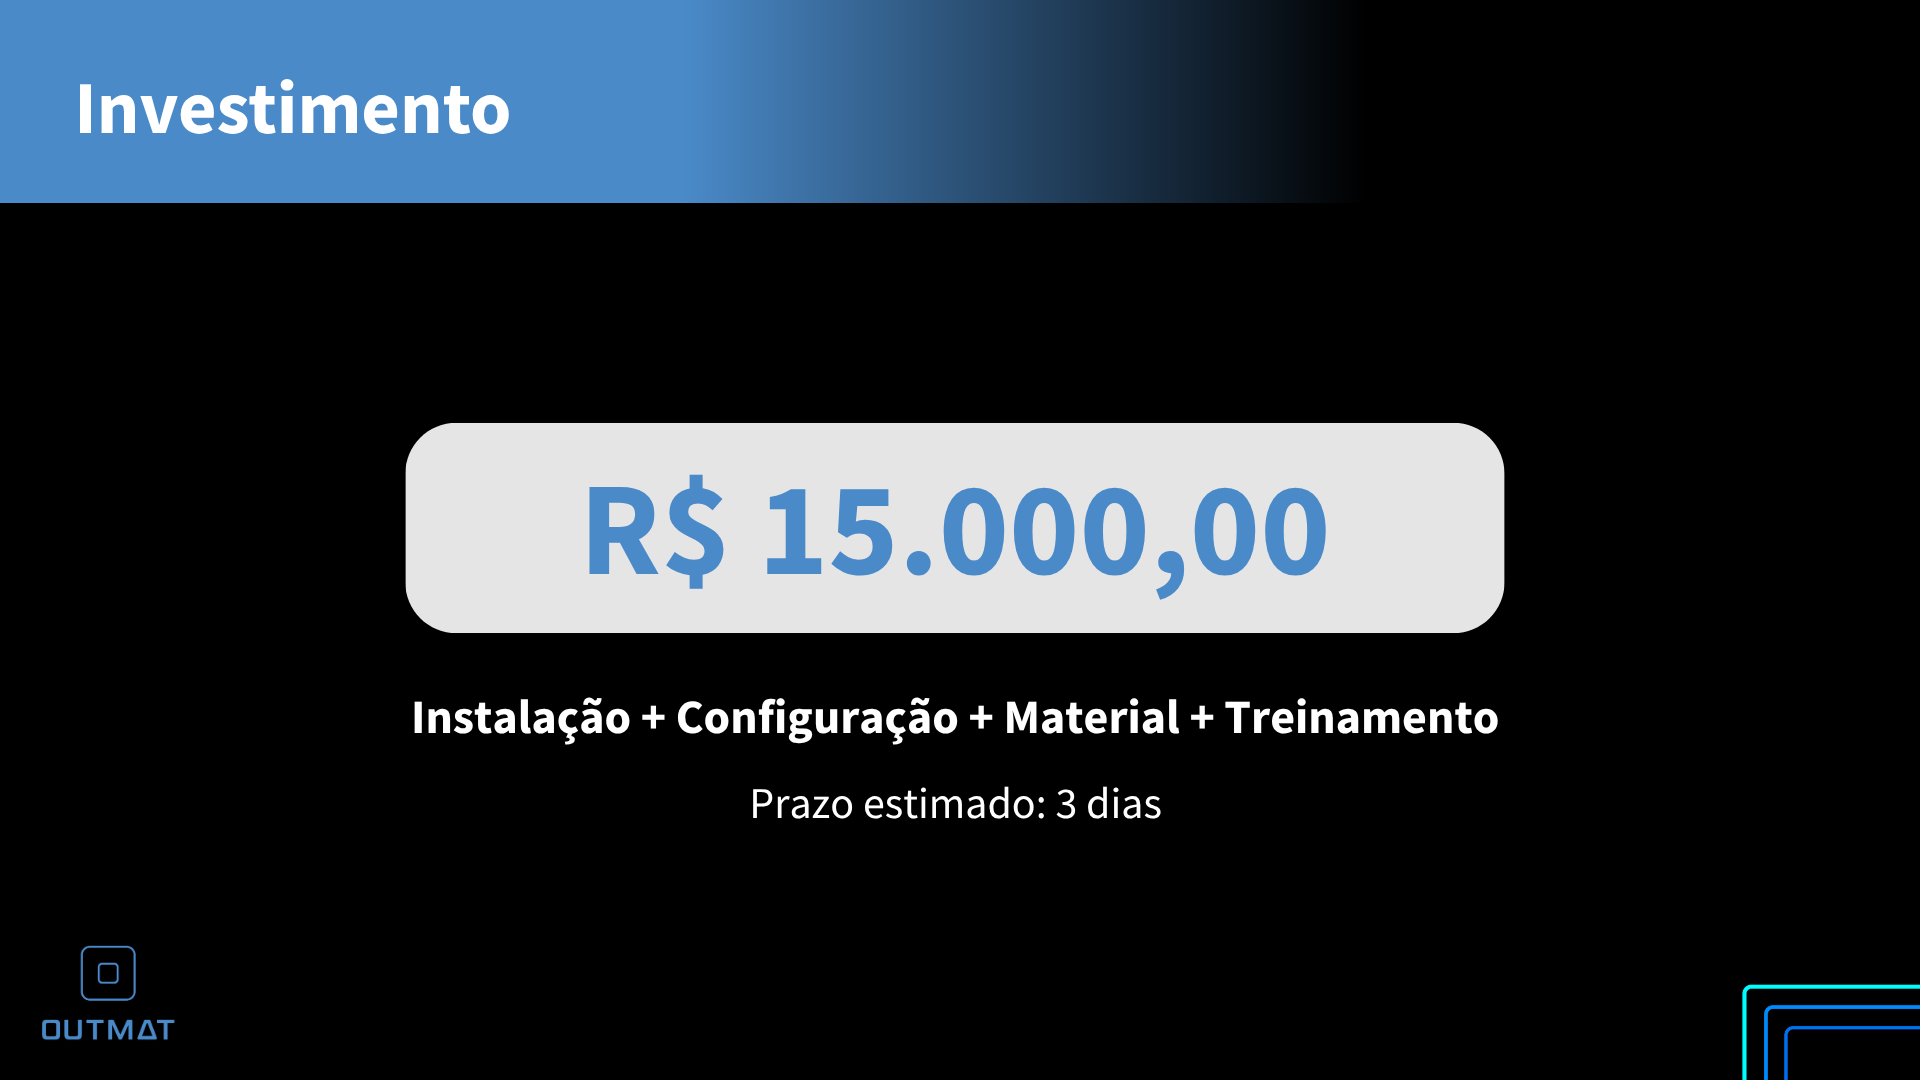
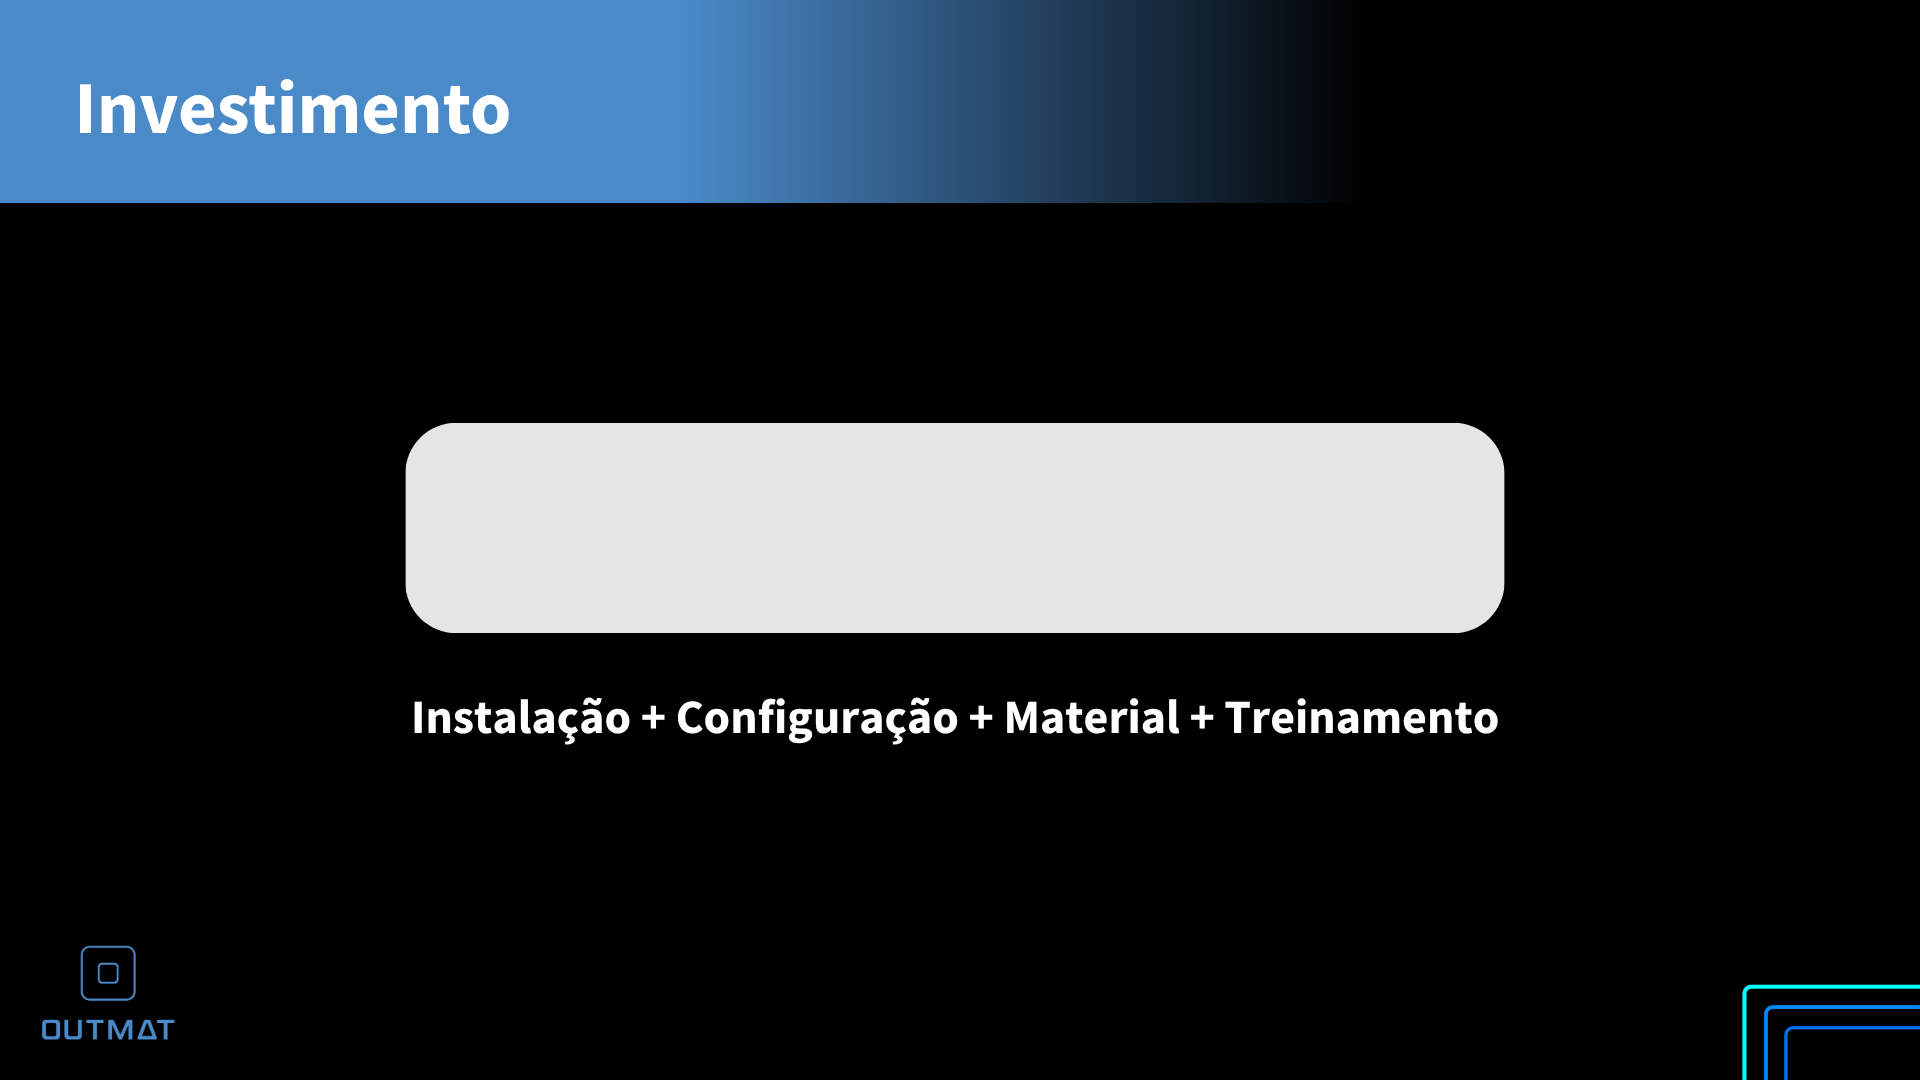
feat: finaliza PDF Projeto e configura seed do Prisma

Changed region(s): [[0.4062, 0.4278, 0.6875, 0.55], [0.2812, 0.4278, 0.375, 0.55], [0.375, 0.7333, 0.625, 0.7639]]

diff --git a/ma.config.ts b/ma.config.ts
@@ -1,0 +1,23 @@
+warning: in the working copy of 'prisma.config.ts', LF will be replaced by CRLF the next time Git touches it
+[1mdiff --git a/prisma.config.ts b/prisma.config.ts[m
+[1mindex 831a20f..d7a7a3c 100644[m
+[1m--- a/prisma.config.ts[m
+[1m+++ b/prisma.config.ts[m
+[36m@@ -1,5 +1,3 @@[m
+[31m-// This file was generated by Prisma, and assumes you have installed the following:[m
+[31m-// npm install --save-dev prisma dotenv[m
+ import "dotenv/config";[m
+ import { defineConfig } from "prisma/config";[m
+ [m
+[36m@@ -7,8 +5,9 @@[m [mexport default defineConfig({[m
+   schema: "prisma/schema.prisma",[m
+   migrations: {[m
+     path: "prisma/migrations",[m
+[32m+[m[32m    seed: "tsx prisma/seed.ts",[m
+   },[m
+   datasource: {[m
+     url: process.env["DATABASE_URL"],[m
+   },[m
+[31m-});[m
+[32m+[m[32m});[m
+\ No newline at end of file[m

diff --git a/prisma.config.ts b/prisma.config.ts
@@ -1,5 +1,3 @@
-// This file was generated by Prisma, and assumes you have installed the following:
-// npm install --save-dev prisma dotenv
 import "dotenv/config";
 import { defineConfig } from "prisma/config";
 
@@ -7,6 +5,7 @@ export default defineConfig({
   schema: "prisma/schema.prisma",
   migrations: {
     path: "prisma/migrations",
+    seed: "tsx prisma/seed.ts",
   },
   datasource: {
     url: process.env["DATABASE_URL"],